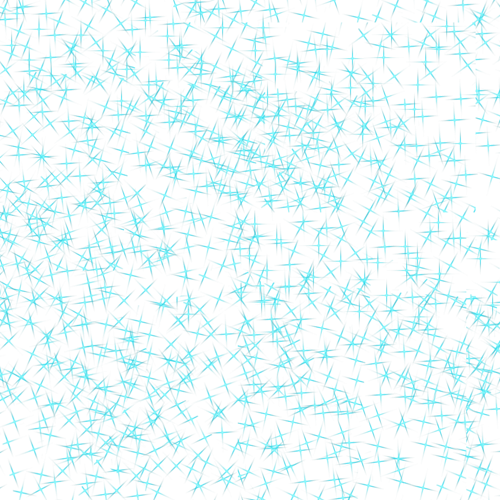
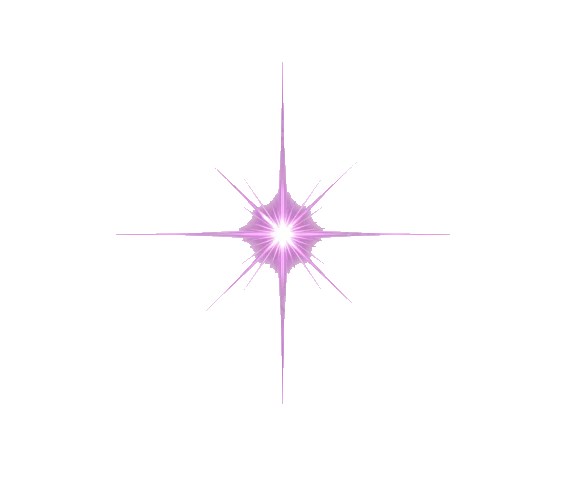
Release v6.0.0: starfield background & assets
Bump project to v6.0.0 and add a moving starfield background and related assets/config. Adds pictures/Star_glitter.png and new config options (scroll speeds, parallax factor, star scale/alpha). Implements star background in run.py (loading, random starfield builder, draw_moving_background, parallax integration, window caption update and regen on resize/fullscreen) and imports random. Update README, helper files and changelogs to reflect the 6.0.0 release. Remove two soundeffect MP3s and trim TODO entries.

diff --git a/run.py b/run.py
@@ -10,8 +10,8 @@
 #  {[**Project**]}     Rocket
 #  {[**File**]}        run.py
 #  {[**Author**]}      Cutie Ashien
-#  {[**Version**]}     5.1.4
-#  {[**Date**]}        2026-05-31
+#  {[**Version**]}     6.0.0
+#  {[**Date**]}        2026-06-04
 #  {[**Python**]}      3.11.x
 #  {[**License**]}     MIT
 # ----------------------------------------------------------------------------------------------------------------------------------------------------------------------------------------------------------------
@@ -34,6 +34,14 @@
 # ----------------------------------------------------------------------------------------------------------------------------------------------------------------------------------------------------------------
 # ----------------------------------------------------------------------------------------------------------------------------------------------------------------------------------------------------------------
 #  {[**Changelog**]}
+#
+#  -v6.0.0: Full release of the game with all features and levels.
+#      - Added multiple levels with increasing difficulty and unique objectives.
+#      - Implemented a highscore system to track player performance across levels.
+#      - Added a main menu with level selection and highscore display.
+#      - Improved graphics and visual effects for a more immersive experience.
+#
+# ---------------------------------------------------------------------------------------------------------------------------------------------------------------------------------------------------------------
 #
 #  -v5.1.4: Winn condition fix.
 #      - Added a fix to the win condition check in the ship class to handle cases where there is no objective instance, allowing for levels without specific objectives to be completed successfully.
@@ -237,6 +245,7 @@ import os # Importing the os library for file path operations
 import time # Importing the time library for time-related functions
 import math # Importing the math library for mathematical functions
 import json
+import random
 
 # ------------------------------------------------------------------------------ #
 
@@ -410,10 +419,76 @@ def draw_navigation_arrow(screen, ship_position, target_position):
     pygame.draw.polygon(screen, (255, 230, 0), rotated_points)
     pygame.draw.circle(screen, (20, 20, 20), (int(arrow_origin.x), int(arrow_origin.y)), 16, 2)
 
+
+def load_star_background_surface():
+    try:
+        star_surface = pygame.image.load(conf.star_glitter_background).convert_alpha()
+        star_scale = float(getattr(conf, "background_star_scale", 1.0))
+        star_scale = max(0.05, min(2.0, star_scale))
+        scaled_size = (
+            max(1, int(star_surface.get_width() * star_scale)),
+            max(1, int(star_surface.get_height() * star_scale))
+        )
+        return pygame.transform.smoothscale(star_surface, scaled_size)
+    except (FileNotFoundError, pygame.error):
+        return None
+
+
+def build_random_starfield(star_surface, width, height):
+    if star_surface is None:
+        return None
+
+    world_width = max(width * 3, 1)
+    world_height = max(height * 3, 1)
+    base_count = max(80, int((width * height) / 12000))
+    stars = []
+    for _ in range(base_count):
+        stars.append((
+            random.uniform(0, world_width),
+            random.uniform(0, world_height),
+            random.uniform(0.45, 1.0)
+        ))
+
+    return {
+        "world_width": world_width,
+        "world_height": world_height,
+        "stars": stars
+    }
+
+
+def draw_moving_background(screen, star_surface, starfield_data, offset_x, offset_y):
+    if star_surface is None or starfield_data is None:
+        screen.fill((0, 0, 0))
+        return
+
+    world_width = starfield_data["world_width"]
+    world_height = starfield_data["world_height"]
+    stars = starfield_data["stars"]
+    if world_width <= 0 or world_height <= 0 or not stars:
+        screen.fill((0, 0, 0))
+        return
+
+    screen.fill((0, 0, 0))
+
+    for star_x, star_y, star_brightness in stars:
+        screen_x = (star_x - offset_x) % world_width
+        screen_y = (star_y - offset_y) % world_height
+
+        if screen_x > screensize_x or screen_y > screensize_y:
+            continue
+
+        alpha_min = int(getattr(conf, "background_star_alpha_min", 25))
+        alpha_max = int(getattr(conf, "background_star_alpha_max", 110))
+        alpha_min = max(0, min(255, alpha_min))
+        alpha_max = max(alpha_min, min(255, alpha_max))
+        star_alpha = alpha_min + int((alpha_max - alpha_min) * star_brightness)
+        star_surface.set_alpha(star_alpha)
+        screen.blit(star_surface, (screen_x, screen_y))
+
 ### Game Loop ###
 
 def game_loop():
-    pygame.display.set_caption("Rocket - v5.1.3") # Setting the window title
+    pygame.display.set_caption("Rocket - v6.0.0 (Full Release 1.0)") # Setting the window title
     pygame.init()
 
     highscore_data = load_highscore_data()
@@ -427,6 +502,8 @@ def game_loop():
     screen = create_window(default_window_size) # set the screen size
     apply_runtime_screen_size(*screen.get_size())
     clock = pygame.time.Clock() # Creating a clock object to manage the frame rate
+    star_background_surface = load_star_background_surface()
+    starfield_data = build_random_starfield(star_background_surface, screensize_x, screensize_y)
 
     # -------------------------------------------------------------------------------- #
     # -------------------------------------------------------------------------------- #
@@ -451,7 +528,7 @@ def game_loop():
     # -------------------------------------------------------------------------------- #
 
     def start_game_loop(running=running, map_selected=map_selected, reset_ship=reset_ship, ship_instance=ship_instance, main_menu_instance=main_menu_instance, delta_time=delta_time, map_data=map_data):
-        nonlocal screen, windowed_size, bordered_fullscreen, resize_grace_frames, ignore_resize_events, previous_window_position, current_level, level_start_ticks
+        nonlocal screen, windowed_size, bordered_fullscreen, resize_grace_frames, ignore_resize_events, previous_window_position, current_level, level_start_ticks, starfield_data
         map_instance = None
         while running:
             for event in pygame.event.get(): # Quiting the game loop if the window is closed
@@ -470,6 +547,7 @@ def game_loop():
                             map_instance,
                             resize_grace_frames
                         )
+                        starfield_data = build_random_starfield(star_background_surface, screensize_x, screensize_y)
                         set_window_position_safe(0, 0)
                         bordered_fullscreen = True
                     else:
@@ -481,6 +559,7 @@ def game_loop():
                             map_instance,
                             resize_grace_frames
                         )
+                        starfield_data = build_random_starfield(star_background_surface, screensize_x, screensize_y)
                         if previous_window_position is not None:
                             set_window_position_safe(previous_window_position[0], previous_window_position[1])
                         bordered_fullscreen = False
@@ -500,11 +579,20 @@ def game_loop():
                         map_instance,
                         resize_grace_frames
                     )
+                    starfield_data = build_random_starfield(star_background_surface, screensize_x, screensize_y)
 
             # -------------------------------------------------------------------------------- #
             # -------------------------------------------------------------------------------- #
 
-            screen.fill((0, 0, 0)) # Filling the screen with black color to clear previous frame
+            parallax_reference_position = vector(0, 0)
+            if map_selected == -1:
+                parallax_reference_position = ship_instance.get_ship_position()
+
+            parallax_factor = float(getattr(conf, "background_parallax_factor", 0.2))
+            # Positive parallax offsets make the tiled background move opposite to ship motion.
+            parallax_offset_x = parallax_reference_position.x * parallax_factor
+            parallax_offset_y = parallax_reference_position.y * parallax_factor
+            draw_moving_background(screen, star_background_surface, starfield_data, parallax_offset_x, parallax_offset_y)
 
             # -------------------------------------------------------------------------------- #
             # -------------------------------------------------------------------------------- #

diff --git a/config.py b/config.py
@@ -10,8 +10,8 @@
 #  {[**Project**]}     Rocket
 #  {[**File**]}        config.py
 #  {[**Author**]}      Cutie Ashien
-#  {[**Version**]}     5.1.3
-#  {[**Date**]}        2026-05-13
+#  {[**Version**]}     6.0.0
+#  {[**Date**]}        2026-06-04
 #  {[**Python**]}      3.11.x
 #  {[**License**]}     MIT
 # ----------------------------------------------------------------------------------------------------------------------------------------------------------------------------------------------------------------
@@ -22,6 +22,14 @@
 # ----------------------------------------------------------------------------------------------------------------------------------------------------------------------------------------------------------------
 # ----------------------------------------------------------------------------------------------------------------------------------------------------------------------------------------------------------------
 #  {[**Changelog**]}
+#
+#  -v6.0.0: Full release of the game with all features and levels.
+#      - Added multiple levels with increasing difficulty and unique objectives.
+#      - Implemented a highscore system to track player performance across levels.
+#      - Added a main menu with level selection and highscore display.
+#      - Improved graphics and visual effects for a more immersive experience.
+#
+# ------------------------------------------------------------------------------------------------------------------------------------------------------------------------------------------------------------------
 #
 #  - v5.1.3: Objective system update.
 #      - Half rework of objective system
@@ -168,3 +176,12 @@ wall_tile = r'pictures/tiles/Basic_wall.png' # Loading tile images
 start_point_tile = r'pictures/tiles/Start_point.png' # Loading tile images
 finish_point_tile = r'pictures/tiles/Finisch_point.png' # Loading tile images
 rocket_ship = r'pictures/Rocket - frontend.png' # Loading tile images
+star_glitter_background = r'pictures/Star_glitter.png' # Moving background texture
+
+# Background motion (pixels per second)
+background_scroll_speed_x = 24
+background_scroll_speed_y = 8
+background_parallax_factor = 0.2
+background_star_scale = 0.35
+background_star_alpha_min = 25
+background_star_alpha_max = 110

diff --git a/helper/main_menu.py b/helper/main_menu.py
@@ -10,8 +10,8 @@
 #  {[**Project**]}     Rocket
 #  {[**File**]}        main_menu.py
 #  {[**Author**]}      Cutie Ashien
-#  {[**Version**]}     5.1.2
-#  {[**Date**]}        2026-04-29
+#  {[**Version**]}     6.0.0
+#  {[**Date**]}        2026-06-04
 #  {[**Python**]}      3.11.x
 #  {[**License**]}     MIT
 # ----------------------------------------------------------------------------------------------------------------------------------------------------------------------------------------------------------------
@@ -22,6 +22,14 @@
 # ----------------------------------------------------------------------------------------------------------------------------------------------------------------------------------------------------------------
 # ----------------------------------------------------------------------------------------------------------------------------------------------------------------------------------------------------------------
 #  {[**Changelog**]}
+#
+#  -v6.0.0: Full release of the game with all features and levels.
+#      - Added multiple levels with increasing difficulty and unique objectives.
+#      - Implemented a highscore system to track player performance across levels.
+#      - Added a main menu with level selection and highscore display.
+#      - Improved graphics and visual effects for a more immersive experience.
+#
+# ------------------------------------------------------------------------------------------------------------------------------------------------------------------------------------------------------------------
 #
 #   - v5.1.2: Objective system update.
 #       - Fixed minor bugs in the objective system.

diff --git a/helper/map.py b/helper/map.py
@@ -10,8 +10,8 @@
 #  {[**Project**]}     Rocket
 #  {[**File**]}        map.py
 #  {[**Author**]}      Cutie Ashien
-#  {[**Version**]}     5.1.3
-#  {[**Date**]}        2026-05-18
+#  {[**Version**]}     6.0.0
+#  {[**Date**]}        2026-06-04
 #  {[**Python**]}      3.11.x
 #  {[**License**]}     MIT
 # ----------------------------------------------------------------------------------------------------------------------------------------------------------------------------------------------------------------
@@ -22,6 +22,14 @@
 # ----------------------------------------------------------------------------------------------------------------------------------------------------------------------------------------------------------------
 # ----------------------------------------------------------------------------------------------------------------------------------------------------------------------------------------------------------------
 #  {[**Changelog**]}
+#
+#  -v6.0.0: Full release of the game with all features and levels.
+#      - Added multiple levels with increasing difficulty and unique objectives.
+#      - Implemented a highscore system to track player performance across levels.
+#      - Added a main menu with level selection and highscore display.
+#      - Improved graphics and visual effects for a more immersive experience.
+#
+# ------------------------------------------------------------------------------------------------------------------------------------------------------------------------------------------------------------------
 #
 #   - v5.1.3: Objective system update.
 #       - Half rework of objective system

diff --git a/helper/objectives.py b/helper/objectives.py
@@ -10,8 +10,8 @@
 #  {[**Project**]}     Rocket
 #  {[**File**]}        objectives.py
 #  {[**Author**]}      Cutie Ashien
-#  {[**Version**]}     5.1.3
-#  {[**Date**]}        2026-05-18
+#  {[**Version**]}     6.0.0
+#  {[**Date**]}        2026-06-04
 #  {[**Python**]}      3.11.x
 #  {[**License**]}     MIT
 # ----------------------------------------------------------------------------------------------------------------------------------------------------------------------------------------------------------------
@@ -22,6 +22,14 @@
 # ----------------------------------------------------------------------------------------------------------------------------------------------------------------------------------------------------------------
 # ----------------------------------------------------------------------------------------------------------------------------------------------------------------------------------------------------------------
 #  {[**Changelog**]}
+#
+#  -v6.0.0: Full release of the game with all features and levels.
+#      - Added multiple levels with increasing difficulty and unique objectives.
+#      - Implemented a highscore system to track player performance across levels.
+#      - Added a main menu with level selection and highscore display.
+#      - Improved graphics and visual effects for a more immersive experience.
+#
+# ------------------------------------------------------------------------------------------------------------------------------------------------------------------------------------------------------------------
 #
 #  - v5.1.3: Objective system update.
 #      - Half rework of objective system

diff --git a/levels.py b/levels.py
@@ -10,8 +10,8 @@
 #  {[**Project**]}     Rocket
 #  {[**File**]}        levels.py
 #  {[**Author**]}      Cutie Ashien
-#  {[**Version**]}     5.1.3
-#  {[**Date**]}        2026-05-13
+#  {[**Version**]}     6.0.0
+#  {[**Date**]}        2026-06-04
 #  {[**Python**]}      3.11.x
 #  {[**License**]}     MIT
 # ----------------------------------------------------------------------------------------------------------------------------------------------------------------------------------------------------------------
@@ -22,6 +22,14 @@
 # ----------------------------------------------------------------------------------------------------------------------------------------------------------------------------------------------------------------
 # ----------------------------------------------------------------------------------------------------------------------------------------------------------------------------------------------------------------
 #  {[**Changelog**]}
+#
+#  -v6.0.0: Full release of the game with all features and levels.
+#      - Added multiple levels with increasing difficulty and unique objectives.
+#      - Implemented a highscore system to track player performance across levels.
+#      - Added a main menu with level selection and highscore display.
+#      - Improved graphics and visual effects for a more immersive experience.
+#
+# ------------------------------------------------------------------------------------------------------------------------------------------------------------------------------------------------------------------
 #
 #  - v5.1.4: Win condition fix.
 #      - Added a fix to the win condition check in the ship class to handle cases where there is no objective instance, allowing for levels without specific objectives to be completed successfully.